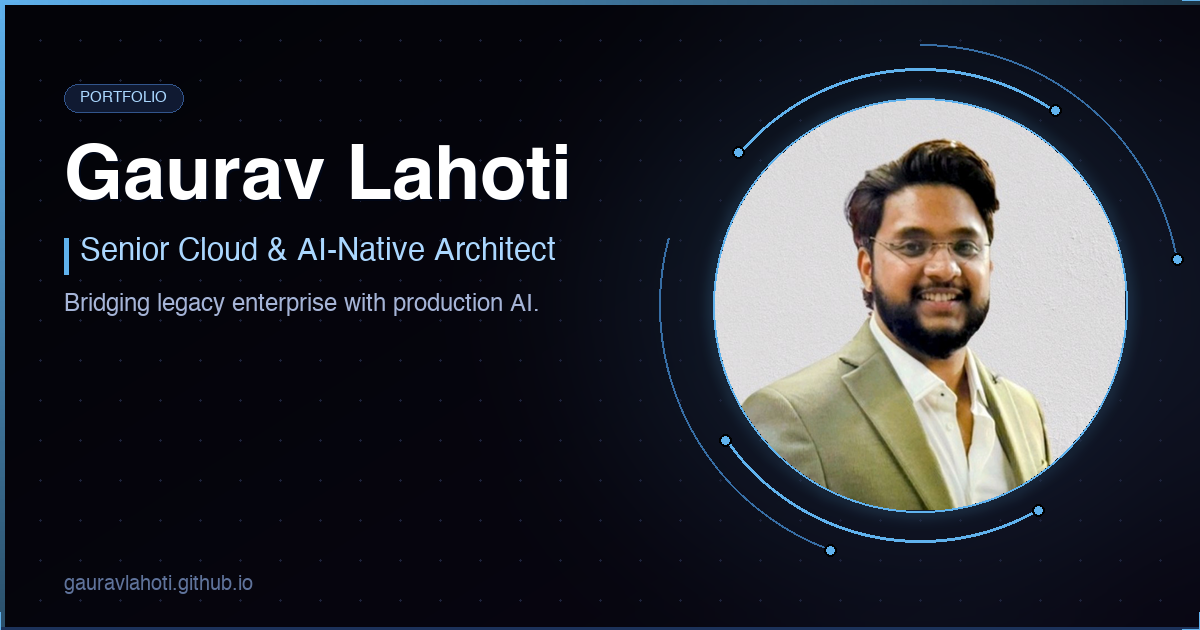
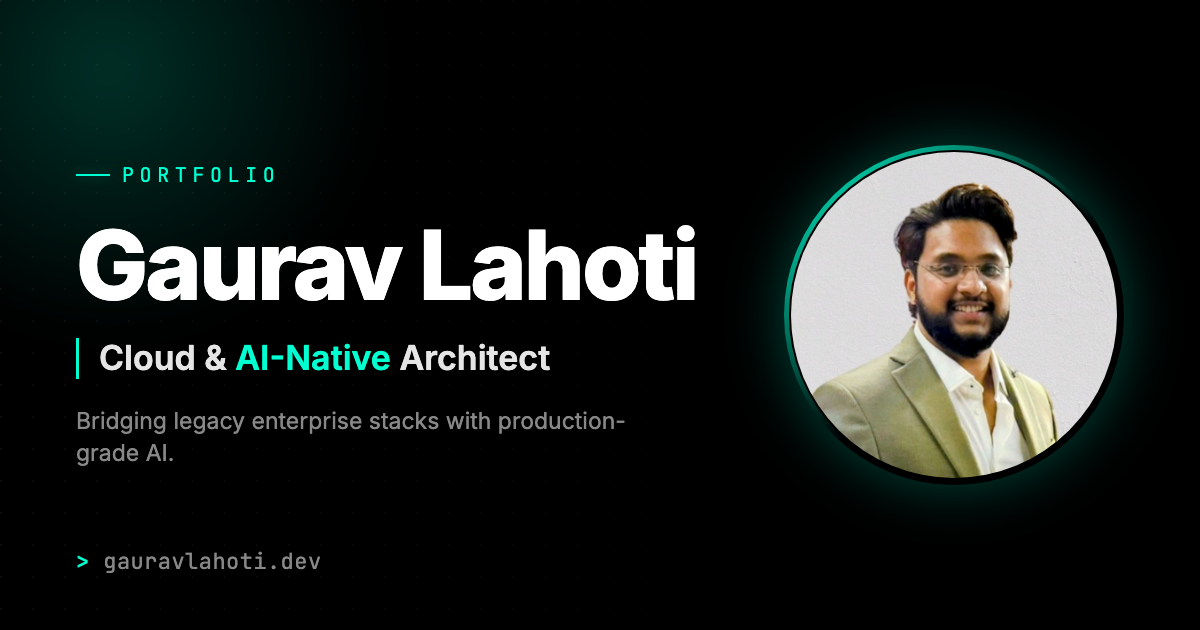
Refresh OG card + fix social title to Cloud & AI-Native Architect
Regenerated og-image.png via new reusable scripts/og-image template (correct gauravlahoti.dev domain, on-brand). Standardized og/twitter/schema titles. Bump assets to v220.

diff --git a/index.html b/index.html
@@ -8,30 +8,30 @@
          GSAP's runtime style mutations and for the Google Sign-In iframe's
          inline styles; everything else is locked down. -->
     <meta http-equiv="Content-Security-Policy" content="default-src 'self'; script-src 'self' https://cdn.jsdelivr.net https://accounts.google.com; style-src 'self' 'unsafe-inline' https://rsms.me https://cdn.jsdelivr.net; style-src-elem 'self' 'unsafe-inline' https://rsms.me https://cdn.jsdelivr.net; img-src 'self' data: https: https://storage.googleapis.com; font-src 'self' data: https://rsms.me https://cdn.jsdelivr.net; connect-src 'self' https://cdn.jsdelivr.net https://gaurav-portfolio-resume-gate.gaurav-lahoti25.workers.dev https://accounts.google.com https://www.googleapis.com https://atlas-lw4bt7nrba-uc.a.run.app; frame-src https://accounts.google.com; object-src 'none'; base-uri 'self'; form-action 'self'">
-    <script src="assets/js/scroll-restore.js?v=219"></script>
+    <script src="assets/js/scroll-restore.js?v=220"></script>
     <title>Gaurav Lahoti</title>
     <meta name="description" content="Architecting autonomous workflows that bridge legacy enterprise stacks and production-grade AI.">
     <link rel="canonical" href="https://gauravlahoti.dev/">
-    <meta property="og:title" content="Gaurav Lahoti | Cloud & AI Architect">
+    <meta property="og:title" content="Gaurav Lahoti | Cloud & AI-Native Architect">
     <meta property="og:description" content="Architecting autonomous workflows that bridge legacy enterprise stacks and production-grade AI.">
-    <meta property="og:image" content="https://gauravlahoti.dev/assets/img/og-image.png">
+    <meta property="og:image" content="https://gauravlahoti.dev/assets/img/og-image.png?v=220">
     <meta property="og:image:width" content="1200">
     <meta property="og:image:height" content="630">
     <meta property="og:url" content="https://gauravlahoti.dev/">
     <meta property="og:site_name" content="Gaurav Lahoti">
     <meta property="og:type" content="profile">
     <meta name="twitter:card" content="summary_large_image">
-    <meta name="twitter:title" content="Gaurav Lahoti — Senior Cloud & AI-Native Architect">
+    <meta name="twitter:title" content="Gaurav Lahoti | Cloud & AI-Native Architect">
     <meta name="twitter:description" content="Architecting autonomous workflows that bridge legacy enterprise stacks and production-grade AI.">
-    <meta name="twitter:image" content="https://gauravlahoti.dev/assets/img/og-image.png">
+    <meta name="twitter:image" content="https://gauravlahoti.dev/assets/img/og-image.png?v=220">
     <script type="application/ld+json">
     {
       "@context": "https://schema.org",
       "@type": "Person",
       "name": "Gaurav Lahoti",
-      "jobTitle": "Senior Cloud & AI Architect",
+      "jobTitle": "Cloud & AI-Native Architect",
       "url": "https://gauravlahoti.dev/",
-      "image": "https://gauravlahoti.dev/assets/img/og-image.png",
+      "image": "https://gauravlahoti.dev/assets/img/og-image.png?v=220",
       "worksFor": { "@type": "Organization", "name": "Deloitte" },
       "alumniOf": { "@type": "CollegeOrUniversity", "name": "Institute of Engineering and Technology" },
       "address": { "@type": "PostalAddress", "addressLocality": "Gurugram", "addressCountry": "IN" },
@@ -51,9 +51,9 @@
     <link rel="stylesheet" href="https://cdn.jsdelivr.net/npm/@fontsource/jetbrains-mono@5.0.20/index.css"
           integrity="sha384-8X0qYYsBdYZ9bk70hw4HTDsWIeMfYCwYmUcsezfamiqI024ZDkBKbaTx68Kwh6wx"
           crossorigin="anonymous">
-    <link rel="stylesheet" href="assets/css/base.css?v=219">
-    <link rel="stylesheet" href="assets/css/layout.css?v=219">
-    <link rel="stylesheet" href="assets/css/components.css?v=219">
+    <link rel="stylesheet" href="assets/css/base.css?v=220">
+    <link rel="stylesheet" href="assets/css/layout.css?v=220">
+    <link rel="stylesheet" href="assets/css/components.css?v=220">
 
     <script src="https://cdn.jsdelivr.net/npm/gsap@3.12.5/dist/gsap.min.js"
             integrity="sha384-g4NTh/Iv5PPU4xPyhEWqPcwtNXOvdaDI8LLnyYfyNZOjKJeYQyjzQ9X5275eBjpt"
@@ -477,6 +477,6 @@
          the FAB and slide-in panel; lazy-loaded via requestIdleCallback. -->
     <div id="agent-root"></div>
 
-    <script type="module" src="assets/js/main.js?v=219"></script>
+    <script type="module" src="assets/js/main.js?v=220"></script>
 </body>
 </html>

diff --git a/scripts/og-image/template.html b/scripts/og-image/template.html
@@ -1,0 +1,145 @@
+<!DOCTYPE html>
+<!--
+  Open Graph card template for gauravlahoti.dev (1200x630).
+  Rendered to assets/img/og-image.png by scripts/og-image/render.sh.
+  Design tokens mirror assets/css/base.css. Edit copy here, then re-render.
+  {{PORTRAIT}} is replaced with a base64 data URI at render time.
+-->
+<html lang="en">
+<head>
+<meta charset="UTF-8">
+<link rel="preconnect" href="https://fonts.googleapis.com">
+<link rel="preconnect" href="https://fonts.gstatic.com" crossorigin>
+<link href="https://fonts.googleapis.com/css2?family=Inter:wght@400;600;700;800&family=JetBrains+Mono:wght@400;500&display=swap" rel="stylesheet">
+<style>
+  :root {
+    --bg: #000000;
+    --bg-card: #111111;
+    --ink: #E5E5E5;
+    --ink-muted: #888888;
+    --accent: #00FFD1;
+    --accent-glow: rgba(0, 255, 209, 0.35);
+    --accent-soft: rgba(0, 255, 209, 0.12);
+    --border-strong: rgba(255, 255, 255, 0.16);
+    --font-mono: "JetBrains Mono", "SF Mono", Menlo, Consolas, monospace;
+    --font-sans: "Inter", -apple-system, "Segoe UI", system-ui, sans-serif;
+  }
+  * { margin: 0; padding: 0; box-sizing: border-box; }
+  html, body { width: 1200px; height: 630px; }
+  body {
+    background: var(--bg);
+    font-family: var(--font-sans);
+    color: var(--ink);
+    position: relative;
+    overflow: hidden;
+  }
+  /* subtle dot grid */
+  .grid {
+    position: absolute; inset: 0;
+    background-image: radial-gradient(circle at 1px 1px, rgba(255,255,255,0.05) 1px, transparent 0);
+    background-size: 32px 32px;
+    mask-image: linear-gradient(to right, rgba(0,0,0,0.9), transparent 70%);
+  }
+  /* accent glow, top-left */
+  .glow {
+    position: absolute;
+    width: 620px; height: 620px;
+    top: -240px; left: -200px;
+    background: radial-gradient(circle, var(--accent-glow), transparent 62%);
+    filter: blur(20px);
+    opacity: 0.55;
+  }
+  .frame {
+    position: absolute; inset: 0;
+    display: flex; align-items: center;
+    padding: 0 76px;
+    gap: 56px;
+  }
+  .left { flex: 1; }
+  .eyebrow {
+    font-family: var(--font-mono);
+    font-size: 20px;
+    letter-spacing: 0.28em;
+    color: var(--accent);
+    text-transform: uppercase;
+    margin-bottom: 30px;
+    display: inline-flex; align-items: center; gap: 12px;
+  }
+  .eyebrow::before {
+    content: ""; width: 34px; height: 2px; background: var(--accent);
+    box-shadow: 0 0 12px var(--accent-glow);
+  }
+  .name {
+    font-size: 96px;
+    font-weight: 800;
+    line-height: 0.98;
+    letter-spacing: -0.03em;
+    color: #FFFFFF;
+    margin-bottom: 26px;
+  }
+  .title {
+    font-size: 34px;
+    font-weight: 600;
+    color: var(--ink);
+    padding-left: 20px;
+    border-left: 3px solid var(--accent);
+    line-height: 1.2;
+    margin-bottom: 26px;
+  }
+  .title b { color: var(--accent); font-weight: 600; }
+  .tagline {
+    font-size: 23px;
+    color: var(--ink-muted);
+    max-width: 560px;
+    line-height: 1.4;
+  }
+  .right {
+    position: relative;
+    width: 340px; height: 340px;
+    flex-shrink: 0;
+  }
+  .portrait-ring {
+    position: absolute; inset: 0;
+    border-radius: 50%;
+    padding: 5px;
+    background: linear-gradient(140deg, var(--accent), transparent 55%);
+    box-shadow: 0 0 60px rgba(0,255,209,0.28);
+  }
+  .portrait-ring img {
+    width: 100%; height: 100%;
+    border-radius: 50%;
+    object-fit: cover;
+    display: block;
+    background: var(--bg-card);
+    border: 2px solid var(--bg);
+  }
+  .domain {
+    position: absolute;
+    left: 76px; bottom: 54px;
+    font-family: var(--font-mono);
+    font-size: 22px;
+    color: var(--ink-muted);
+    letter-spacing: 0.02em;
+  }
+  .domain b { color: var(--accent); font-weight: 500; }
+</style>
+</head>
+<body>
+  <div class="grid"></div>
+  <div class="glow"></div>
+  <div class="frame">
+    <div class="left">
+      <div class="eyebrow">Portfolio</div>
+      <h1 class="name">Gaurav Lahoti</h1>
+      <div class="title">Cloud &amp; <b>AI-Native</b> Architect</div>
+      <p class="tagline">Bridging legacy enterprise stacks with production-grade AI.</p>
+    </div>
+    <div class="right">
+      <div class="portrait-ring">
+        <img src="{{PORTRAIT}}" alt="Gaurav Lahoti">
+      </div>
+    </div>
+  </div>
+  <div class="domain"><b>&gt;</b> gauravlahoti.dev</div>
+</body>
+</html>

diff --git a/assets/js/main.js b/assets/js/main.js
@@ -31,7 +31,7 @@ function isChrome() {
 // Append `?v=ASSET_VERSION` to dynamic imports so a cache-bust on the entry
 // script also invalidates lazy-loaded modules. Bump together with the
 // ?v=N query strings on <link>/<script> in index.html.
-const ASSET_VERSION = "219";
+const ASSET_VERSION = "220";
 const v = (path) => `${path}?v=${ASSET_VERSION}`;
 
 // (Refresh-lands-at-top behavior is handled by the inline <script> in
